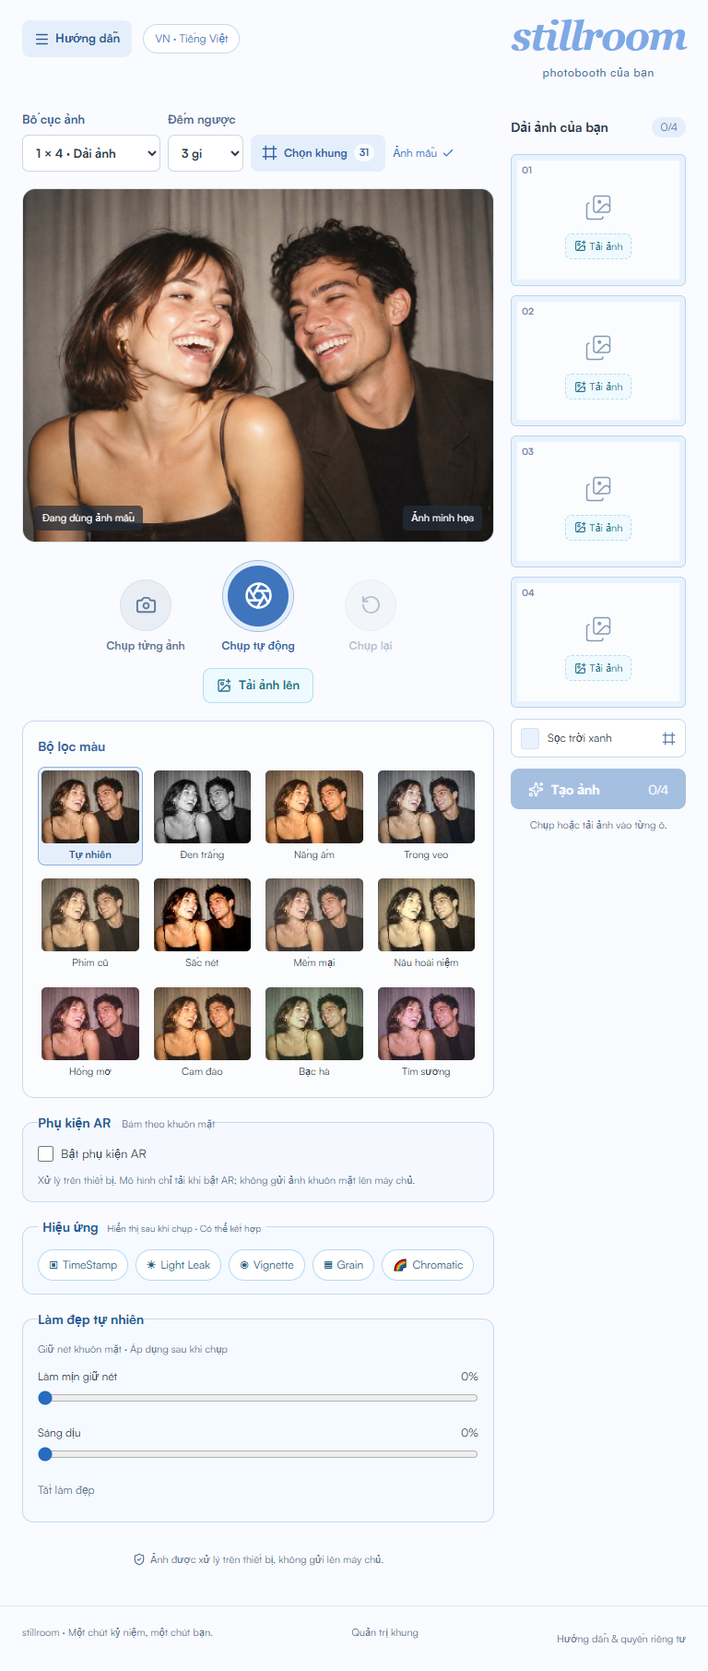
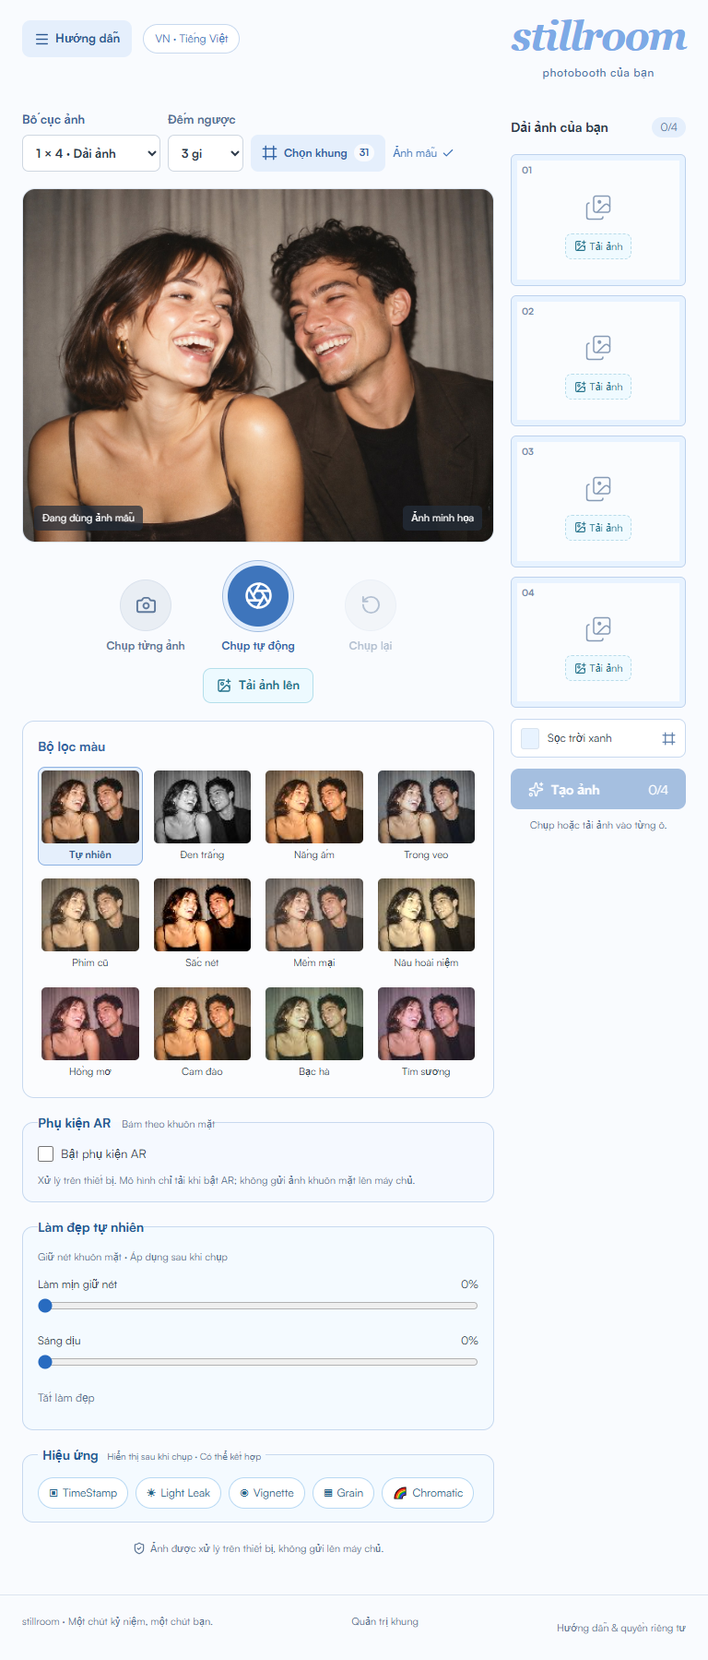
feat: redesign mobile photobooth tools

diff --git a/src/app/globals.css b/src/app/globals.css
@@ -1,4 +1,15 @@
 @import "tailwindcss";
+@import "./mobile.css";
+.desktop-tool{display:contents}.mobile-frame-trigger{display:none}.mobile-tool-sheet:not([open]){display:none}
+.secondary-controls .sample-button{margin-left:0}
+.print-editor .desktop-tool>label{display:flex;flex-direction:column;gap:6px;font-size:13px;margin-bottom:16px}
+html:has(.mobile-tool-sheet[open]),html:has(.frame-dialog[open]){overflow:hidden}
+.mobile-tool-sheet{padding:0;width:min(100%,600px);max-width:100%;max-height:85dvh;inset:auto 0 0;margin:0 auto;border-radius:20px 20px 0 0;overflow:hidden}
+.mobile-tool-sheet[open]{display:flex;flex-direction:column}
+.mobile-sheet-heading{display:flex;align-items:center;justify-content:space-between;gap:12px;padding:12px 16px;border-bottom:1px solid #c8d9ef;flex-shrink:0}
+.mobile-sheet-heading h2{font-size:18px;font-weight:700}.mobile-sheet-heading button{width:44px;height:44px;border-radius:50%;background:#e5effc}
+.mobile-sheet-content{overflow-y:auto;overscroll-behavior:contain;padding:16px 16px calc(20px + env(safe-area-inset-bottom));min-height:0}
+.mobile-sheet-content>label{display:flex;flex-direction:column;gap:8px;margin-bottom:16px}
 :root{--bg:#f9fbfe;--surface:#fdfeff;--accent:#3e75bc;--accent-soft:#e5effc;--accent-line:#c8d9ef;--ink:#2f3c4c;--muted:#5a7393;--blue:#24728b;--blue-soft:#edfaff}
 *{box-sizing:border-box}html{scroll-behavior:auto}body{margin:0;background:var(--bg);color:var(--ink);font-family:Satoshi,Arial,sans-serif;font-size:16px;line-height:1.5}button,input,select{font:inherit}button,a{touch-action:manipulation;-webkit-tap-highlight-color:transparent}button{cursor:pointer;background:none;color:inherit;border:0}button:disabled{opacity:.45;cursor:not-allowed}a{color:inherit;text-decoration:none}img{display:block;max-width:100%}h1,h2,h3,p{margin:0}fieldset{padding:0;margin:0;border:0;min-width:0}:focus-visible{outline:3px solid #537097;outline-offset:3px}h1[tabindex]:focus{outline:0}button{transition:background-color .15s,border-color .15s}button:hover:not(:disabled){filter:brightness(.97)}button:active:not(:disabled){filter:brightness(.93)}::selection{background:#d2e3fa}.studio{min-height:100dvh;overflow-x:clip}.studio-header{max-width:1480px;min-height:138px;padding:18px 32px 24px;margin:auto;display:grid;grid-template-columns:1fr auto 1fr;align-items:start;gap:20px}.header-tools{display:flex;align-items:center;gap:12px;padding-top:4px}.menu-button{display:flex;align-items:center;gap:6px;background:var(--accent-soft);color:#2d5992;padding:8px 13px;border-radius:9px;font-size:13px;font-weight:700;min-height:40px}.language-label{font-size:12px;color:var(--accent);border:1px solid var(--accent-line);background:#fff;border-radius:20px;padding:6px 12px}.brand{text-align:center;font-family:Georgia,serif;font-size:52px;line-height:1;font-weight:700;font-style:italic;letter-spacing:-.045em;color:#7daae6}.brand span{display:block;font-family:Satoshi,Arial,sans-serif;font-style:normal;font-weight:500;font-size:15px;letter-spacing:.05em;color:#4e75a9;margin-top:12px}.header-note{justify-self:end;display:flex;align-items:center;gap:6px;color:var(--muted);font-size:12px;padding-top:16px}.studio-grid{display:grid;grid-template-columns:minmax(0,1fr) 236px;gap:24px;max-width:1090px;margin:0 auto;padding:0 24px}.capture-panel{min-width:0}.toolbar{display:flex;gap:12px;align-items:end;margin:0 0 18px}.toolbar label{display:flex;flex-direction:column;gap:6px;font-size:13px;font-weight:600;color:#436899}.toolbar select{font-size:13px;min-height:40px;padding:8px 28px 8px 10px}.toolbar label:nth-child(2){color:#557196}.toolbar label:first-child{width:172px}.toolbar label:nth-child(2){width:96px}select,input:not([type=checkbox]){color:var(--ink);border:1px solid #cfd7e1;background:#fff;border-radius:7px;min-height:44px;padding:10px 12px;width:100%;min-width:0;font-size:14px}.frame-button{display:flex;align-items:center;gap:7px;min-height:40px;border-radius:8px;background:var(--accent-soft);color:#3163a5;padding:8px 12px;font-size:13px;font-weight:600;white-space:nowrap}.frame-button>span{background:#f9fbfe;border-radius:20px;padding:1px 6px;font-size:11px}.sample-button{display:flex;gap:5px;align-items:center;white-space:nowrap;min-height:40px;margin-left:auto;font-size:12px;color:var(--muted)}.sample-button[aria-pressed=true]{color:var(--accent)}.viewfinder{position:relative;width:min(100%,calc(490px * var(--ratio)));aspect-ratio:var(--ratio);max-width:100%;margin:auto;background:#eef3f9;border:1px solid #dce4ee;border-radius:14px;overflow:hidden}.viewfinder>canvas{width:100%;height:100%;object-fit:contain;display:block}.mirrored{transform:scaleX(-1)}.source-video{position:fixed;width:1px;height:1px;opacity:0;pointer-events:none;top:0;left:0}.camera-empty{position:absolute;inset:0;display:flex;flex-direction:column;align-items:center;justify-content:center;text-align:center;padding:24px;gap:14px;background:radial-gradient(ellipse at 50% 40%,#f8fbfe,#eef3f9)}.camera-symbol{background:#dfe7f2;color:#6b84a5;width:74px;height:74px;border-radius:50%;display:grid;place-items:center;margin-bottom:5px}.camera-empty h1{font-size:20px;line-height:1.5;font-weight:600}.camera-empty p{font-size:14px;max-width:370px;line-height:1.6;color:var(--muted)}.button{display:inline-flex;align-items:center;justify-content:center;gap:8px;min-height:44px;padding:10px 18px;font-size:14px;font-weight:600;border-radius:9px;border:1px solid transparent}.primary{background:var(--accent);color:white}.secondary{background:#fff;border-color:var(--accent-line);color:#516e95}.upload-inline{font-size:13px;color:var(--blue);min-height:36px;text-decoration:underline;text-underline-offset:3px}.camera-status,.mirror-note{position:absolute;bottom:12px;padding:5px 9px;border-radius:5px;background:#232d39bb;color:#fff;font-size:11px}.camera-status{left:12px}.mirror-note{right:12px}.countdown{position:absolute;inset:0;display:grid;place-items:center;color:white;text-shadow:0 2px 16px #232d3988;font-weight:700;font-size:100px}.capture-flash{position:absolute;inset:0;background:#fff9;pointer-events:none}.capture-controls{display:flex;align-items:end;justify-content:center;gap:36px;margin-top:20px}.capture-action{display:flex;flex-direction:column;align-items:center;gap:7px;font-size:12px;font-weight:600;color:#5e7899;min-width:86px}.capture-action>span{display:grid;place-items:center;background:#e9eef4;border:1px solid #dae2ed;width:56px;height:56px;border-radius:50%;color:#607a9c}.capture-action.auto>span{width:76px;height:76px;background:var(--accent);color:#fff;border:5px solid #e3eefc;outline:1px solid #a2bde0}.capture-action.auto{color:#3568aa}.shutter-count{font-size:26px;font-weight:700}.secondary-controls{display:flex;justify-content:center;gap:16px;align-items:center;min-height:68px}.upload-button{background:var(--blue-soft);border-color:#b4dfeb;color:var(--blue);font-size:13px;min-height:38px;padding:8px 14px}.quiet-button{display:flex;align-items:center;gap:5px;color:var(--muted);font-size:12px;min-height:40px}.filters-panel{border:1px solid var(--accent-line);border-radius:13px;padding:16px;margin-top:4px;background:#fbfcfe}.filters-panel legend{float:left;width:100%;color:#3364a3;font-size:14px;font-weight:700;margin-bottom:12px}.filters-panel legend span{float:right;font-size:11px;font-weight:400;color:var(--muted);line-height:21px}.filter-list{clear:both;display:grid;grid-template-columns:repeat(6,minmax(0,1fr));gap:10px 8px}.filter-option{padding:3px;border:1px solid transparent;border-radius:8px;display:flex;flex-direction:column;align-items:center;gap:5px;font-size:11px;text-align:center;line-height:1.4;min-height:40px}.filter-option img{width:100%;aspect-ratio:4/3;object-fit:cover;border-radius:5px}.filter-option.selected{background:var(--accent-soft);border-color:#8ab0e1;color:#345d92;font-weight:700}.privacy-line{font-size:11px;color:var(--muted);display:flex;justify-content:center;align-items:center;gap:5px;padding-top:16px}.strip-panel{padding-top:2px}.strip-heading{display:flex;justify-content:space-between;align-items:center;margin-bottom:14px;min-height:31px}.strip-heading h2{font-size:14px;font-weight:600}.strip-heading>span{font-size:12px;color:#5577a4;background:var(--accent-soft);border-radius:20px;padding:2px 9px}.photo-slots{display:grid;gap:12px}.photo-slot{position:relative;aspect-ratio:4/3;background:#fafcfe;border:1px solid #bdd2ed;border-radius:6px;display:flex;align-items:center;justify-content:center;flex-direction:column;gap:13px;overflow:hidden;box-shadow:inset 0 0 0 6px var(--frame-color)}.photo-slot>svg{color:#879bb6;margin-top:14px}.slot-number{position:absolute;top:9px;left:11px;font-size:10px;color:#748baa;font-weight:600;z-index:1}.slot-upload{display:flex;align-items:center;gap:4px;min-height:28px;font-size:11px;padding:4px 9px;border:1px dashed #b9dcea;border-radius:7px;background:#effaff;color:var(--blue)}.photo-slot.has-photo{padding:6px;background:var(--frame-color)}.photo-slot>img{height:100%;width:100%;object-fit:cover}.has-photo .slot-upload{position:absolute;bottom:10px;right:10px;background:#fcfdffe8;border-style:solid}.has-photo .slot-number{color:#fff;background:#2c3847b0;padding:2px 5px;border-radius:3px}.current-frame{display:flex;gap:9px;align-items:center;border:1px solid var(--accent-line);background:#fff;border-radius:8px;width:100%;min-height:42px;padding:8px 10px;font-size:12px;text-align:left;margin:12px 0}.current-frame>span:first-child{width:20px;height:23px;border:1px solid #0001;border-radius:3px;flex-shrink:0}.current-frame>svg:last-child{margin-left:auto;color:#5b7ca8;flex-shrink:0}.create-print{width:100%;margin-top:0}.create-print>span{margin-left:auto;font-weight:400}.strip-hint{text-align:center;font-size:11px;color:var(--muted);margin-top:9px}.studio-footer{max-width:1090px;margin:42px auto 0;border-top:1px solid #dce5f0;display:flex;justify-content:space-between;gap:12px;padding:20px 24px;color:var(--muted);font-size:11px}.studio-footer button{min-height:30px}.result-page{max-width:990px;padding:0 24px;margin:auto}.result-title{text-align:center;margin:8px 0 28px}.result-title>span{font-size:12px;color:var(--accent)}.result-title h1{font-size:30px;line-height:1.4;margin:8px 0;font-weight:600;letter-spacing:-.03em}.result-title p{font-size:14px;color:var(--muted)}.result-grid{display:grid;grid-template-columns:minmax(0,1fr) 300px;gap:48px}.result-stage{padding:30px;min-height:620px;display:flex;flex-direction:column;justify-content:center;align-items:center;background:#eaeff6;border-radius:13px;gap:20px}.finished-print{max-height:640px;max-width:100%;width:auto;box-shadow:0 7px 18px #425a7a20}.finished-print.strip{max-width:205px}.print-size{font-size:11px;color:var(--muted)}.print-editor h2{font-size:18px;font-weight:600;margin-bottom:20px}.print-editor>label,.color-row label{display:flex;flex-direction:column;gap:6px;font-size:13px;margin-bottom:16px}.color-row{display:grid;grid-template-columns:1fr 1fr;gap:12px}input[type=color]{padding:5px;cursor:pointer}.date-row{display:flex;gap:8px;align-items:center;margin-bottom:16px}.date-row label{display:flex;align-items:center;gap:6px;font-size:12px;white-space:nowrap}.date-row input[type=date]{font-size:12px}.date-row input[type=checkbox]{accent-color:var(--accent);width:16px;height:16px}.decorations{display:flex;gap:8px;margin-bottom:22px}.decorations legend{font-size:13px;margin-bottom:8px}.decorations button{width:40px;height:40px;display:grid;place-items:center;border:1px solid var(--accent-line);background:#fff;border-radius:8px}.decorations .selected{background:var(--accent-soft);border-color:#84a9d9;color:#3364a3}.print-editor>.button{width:100%;margin-bottom:10px}.editor-note{font-size:11px;color:var(--muted);text-align:center;margin-top:8px}dialog{position:fixed;inset:0;margin:auto;background:#fbfcfe;border:1px solid #cad9ec;border-radius:16px;padding:24px;color:var(--ink);box-shadow:0 18px 70px #2d415b26}dialog::backdrop{background:#212b3966}.frame-dialog{width:min(850px,calc(100% - 32px));max-height:88dvh;overflow:auto}.dialog-heading{display:flex;justify-content:space-between;gap:20px;align-items:start;margin-bottom:20px}.dialog-heading h2{font-size:22px;font-weight:600;line-height:1.4;margin-top:4px}.dialog-heading>div>span{color:#527cb4;font-size:12px}.dialog-heading>button{width:40px;height:40px;display:grid;place-items:center;flex-shrink:0;border-radius:50%;background:#e9f0f9}.frame-categories{display:flex;gap:8px;flex-wrap:wrap;margin-bottom:20px}.frame-categories button{font-size:12px;border:1px solid #d4deea;border-radius:20px;padding:7px 14px;min-height:36px;background:#fff}.frame-categories .selected{background:var(--accent);border-color:var(--accent);color:#fff}.frame-grid{display:grid;grid-template-columns:repeat(5,minmax(0,1fr));gap:18px 12px}.frame-choice{min-width:0;padding:0;display:flex;flex-direction:column;gap:8px;text-align:center;font-size:12px}.frame-choice>div{height:190px;display:flex;align-items:center;justify-content:center;position:relative;border:2px solid transparent;border-radius:8px;padding:10px}.frame-choice.selected>div{border-color:var(--accent)}.frame-choice img{height:168px;width:auto;max-width:100%;object-fit:contain;box-shadow:0 3px 8px #202a3718}.frame-check{position:absolute;right:7px;top:7px;width:23px;height:23px;display:grid;place-items:center;border-radius:50%;background:var(--accent);color:white}.gallery-note{font-size:11px;color:var(--muted);margin-top:24px;text-align:center}.help-dialog{max-width:520px;width:calc(100% - 32px);max-height:85dvh;overflow:auto}.help-dialog ol{padding-left:22px;font-size:14px;color:var(--muted);line-height:1.9;margin:0 0 24px}.help-dialog h3{font-size:16px;margin-bottom:8px}.help-dialog p{font-size:14px;color:var(--muted);margin-bottom:16px}.toast{position:fixed;bottom:20px;left:50%;transform:translateX(-50%);display:flex;gap:18px;align-items:center;background:#354457;color:white;padding:12px 16px;border-radius:10px;font-size:13px;z-index:30;max-width:calc(100% - 32px);width:max-content;box-shadow:0 4px 20px #36455920}.toast button{min-width:32px;min-height:32px;display:grid;place-items:center}.skip-link{position:fixed;top:-100px;left:12px;padding:10px 14px;background:var(--accent);color:white;z-index:40}.skip-link:focus{top:12px}.sr-only{position:absolute;width:1px;height:1px;margin:-1px;overflow:hidden;clip:rect(0,0,0,0);white-space:nowrap;border:0;padding:0}.spin{animation:spin 1s linear infinite}@keyframes spin{to{transform:rotate(360deg)}}@media(min-width:1500px){.studio-header{min-height:150px}.studio-grid{max-width:1130px;grid-template-columns:minmax(0,1fr) 250px}.viewfinder{width:min(100%,calc(520px * var(--ratio)))}}
 @media(max-width:900px){.studio-header{padding:18px 24px 22px;grid-template-columns:1fr auto;min-height:120px}.brand{font-size:43px;grid-column:2;grid-row:1}.brand span{font-size:12px}.header-note{display:none}.studio-grid{grid-template-columns:minmax(0,1fr) 190px;gap:18px}.toolbar{gap:8px;flex-wrap:wrap}.toolbar label:first-child{width:150px}.toolbar label:nth-child(2){width:82px}.frame-button{font-size:12px}.sample-button{margin-left:0}.filter-list{grid-template-columns:repeat(4,1fr)}.filters-panel legend span{display:none}.photo-slots{gap:10px}.photo-slot>svg{width:30px;height:30px}.result-grid{gap:24px;grid-template-columns:minmax(0,1fr) 280px}.frame-grid{grid-template-columns:repeat(4,1fr)}}

diff --git a/src/components/booth.tsx b/src/components/booth.tsx
@@ -7,6 +7,7 @@ import { applyFilter, captureFrame, composePhoto, downloadPhoto, generatePhotoSt
 
 import { COLLECTED_FRAMES, loadCollectedFrame, frameLayout, isFrameLayout } from '@/lib/collected-frames';
 import { ARPicker } from './ar-picker';
+import { MobileTool } from './mobile-tool';
 import { useAR } from '@/hooks/use-ar';
 import { paintAR,type ARAccessory } from '@/lib/ar';
 import { BeautyPicker } from './beauty-picker';
@@ -278,7 +279,6 @@ export function Booth() {
           <label>Bố cục ảnh<select disabled={!!options.customFrame} value={options.layout} onChange={e => update('layout', e.target.value as LayoutId)}>{options.customFrame ? <option value={options.layout}>{layout.shots} ảnh · Khung admin</option> : LAYOUTS.filter(l => frameLayout(options.theme) ? l.id === frameLayout(options.theme) : !isFrameLayout(l.id)).map(l => <option value={l.id} key={l.id}>{l.name}</option>)}</select></label>
           <label>Đếm ngược<select value={delay} onChange={e => setDelay(Number(e.target.value))}>{[1, 3, 5, 10].map(n => <option key={n} value={n}>{n} giây</option>)}</select></label>
           <button className="frame-button" onClick={() => gallery.current?.showModal()}><Frame size={17} />Chọn khung<span>{THEMES.length + sharedFrames.length}</span></button>
-          <button className="sample-button" aria-pressed={demo} disabled={!sample} onClick={() => { camera.stop(); setDemo(!demo); }}>Ảnh mẫu{demo && <Check size={14} />}</button>
         </fieldset>
         <div className="viewfinder" style={{ '--ratio': layout.ratio } as CSSProperties}>
           <canvas ref={canvasRef} className={!demo && facing === 'user' ? 'mirrored' : ''} aria-label="Xem trước camera" role="img" />
@@ -299,12 +299,18 @@ export function Booth() {
           <button className="capture-action" disabled={busy || !photos.some(Boolean)} onClick={reset}><span><RotateCcw size={23} /></span>Chụp lại</button>
         </div>
         <div className="secondary-controls">
+          {phase !== 'countdown' && <button className="sample-button" aria-pressed={demo} disabled={!sample || busy} onClick={() => { camera.stop(); setDemo(!demo); }}>Ảnh mẫu{demo && <Check size={14} />}</button>}
           {phase === 'countdown' ? <button className="button secondary" onClick={cancel}><X size={15} />Dừng chụp</button> : <><button className="button upload-button" disabled={uploading} onClick={() => uploadAt(null)}><ImagePlus size={16} />{uploading ? 'Đang đọc ảnh…' : 'Tải ảnh lên'}</button>{!demo && camera.status === 'ready' && <button className="quiet-button" onClick={() => { const next = facing === 'user' ? 'environment' : 'user'; setFacing(next); void camera.start(next); }}><SwitchCamera size={16} />Đổi camera</button>}</>}
         </div>
-        <fieldset className="filters-panel" disabled={busy}><legend>Bộ lọc màu <span>12 sắc thái cho khoảnh khắc của bạn</span></legend><div className="filter-list">{FILTERS.map((f, i) => <button key={f.id} className={'filter-option ' + (options.filter === f.id ? 'selected' : '')} aria-pressed={options.filter === f.id} onClick={() => update('filter', f.id)}>{filterThumbs[i] && <img src={filterThumbs[i]} alt="" />}<span>{f.name}</span></button>)}</div></fieldset>
+        <div className="capture-toolset">
+        <button className="mobile-tool-trigger mobile-frame-trigger" disabled={busy} onClick={() => gallery.current?.showModal()}>Khung</button>
+        <MobileTool title="Bộ lọc" disabled={busy}><fieldset className="filters-panel" disabled={busy}><legend>Bộ lọc màu <span>12 sắc thái cho khoảnh khắc của bạn</span></legend><div className="filter-list">{FILTERS.map((f, i) => <button key={f.id} className={'filter-option ' + (options.filter === f.id ? 'selected' : '')} aria-pressed={options.filter === f.id} onClick={() => update('filter', f.id)}>{filterThumbs[i] && <img src={filterThumbs[i]} alt="" />}<span>{f.name}</span></button>)}</div></fieldset></MobileTool>
+        <MobileTool title="AR" disabled={busy}>
         <ARPicker enabled={arEnabled} onEnabled={setArEnabled} items={arItems} onItems={setArItems} size={arSize} onSize={setArSize} status={ar.status} faces={ar.faceCount} active={ready} disabled={busy} onRetry={ar.retry}/>
-        <EffectPicker value={options.effects} onChange={v => update('effects', v)} disabled={busy} />
-        <BeautyPicker value={options.beauty} onChange={v => update('beauty', v)} disabled={busy} />
+        </MobileTool>
+        <MobileTool title="Làm đẹp" disabled={busy}><BeautyPicker value={options.beauty} onChange={v => update('beauty', v)} disabled={busy} /></MobileTool>
+        <MobileTool title="Hiệu ứng" disabled={busy}><EffectPicker value={options.effects} onChange={v => update('effects', v)} disabled={busy} /></MobileTool>
+        </div>
         <p className="privacy-line"><ShieldCheck size={14} />Ảnh được xử lý trên thiết bị, không gửi lên máy chủ.</p>
       </section>
 
@@ -325,16 +331,28 @@ export function Booth() {
       <div className="result-title"><span>Ảnh của bạn đã sẵn sàng</span><h1 tabIndex={-1} ref={resultHeading}>Giữ lại khoảnh khắc này.</h1><p>Thêm một lời nhắn, chọn khung yêu thích rồi tải về.</p></div>
       <div className="result-grid"><div className="result-stage">{preview ? <div className="print-composition" style={{ width: !options.customFrame && options.layout === 'strip' ? 205 : Math.min(500, 640 * (printRef.current ? printRef.current.width / printRef.current.height : 1)) }}><img className={'finished-print ' + options.layout} src={preview} alt={'Ảnh hoàn chỉnh: ' + options.caption} /><StickerLayer items={stickers} selected={selectedSticker} onSelect={setSelectedSticker} onChange={setStickers} /></div> : <LoaderCircle className="spin" />}<span className="print-size">{size} · PNG{rendering ? ' · Đang cập nhật…' : ''}</span></div>
       <div className="print-editor"><h2>Một chút của riêng bạn</h2>
-        <button className="current-frame" onClick={() => gallery.current?.showModal()}><span style={{ background: theme.color }} />{theme.name}<Frame size={17} /></button>
+        <MobileTool title="Khung, lời nhắn và màu ảnh">
+        <button className="current-frame" onClick={e => {
+          const sheet=e.currentTarget.closest('dialog');
+          const returnTo=sheet?.previousElementSibling;
+          sheet?.close();
+          if(returnTo instanceof HTMLButtonElement)gallery.current?.addEventListener('close',()=>returnTo.focus(),{once:true});
+          gallery.current?.showModal();
+        }}><span style={{ background: theme.color }} />{theme.name}<Frame size={17} /></button>
         <label>Lời nhắn<input value={options.caption} maxLength={60} onChange={e => update('caption', e.target.value)} placeholder="Viết một điều dễ thương…" /></label>
         <label>Bộ lọc màu<select aria-label="Bộ lọc màu" value={options.filter} onChange={e => update('filter', e.target.value as PrintOptions['filter'])}>{FILTERS.map(f => <option key={f.id} value={f.id}>{f.name}</option>)}</select></label>
         <label>Bố cục ảnh<select disabled={!!options.customFrame} aria-label="Bố cục ảnh" value={options.layout} onChange={e => update('layout', e.target.value as LayoutId)}>{options.customFrame ? <option value={options.layout}>{layout.shots} ảnh · Khung admin</option> : LAYOUTS.filter(l => (frameLayout(options.theme) ? l.id === frameLayout(options.theme) : !isFrameLayout(l.id)) && photos.slice(0, l.shots).every(Boolean)).map(l => <option key={l.id} value={l.id}>{l.name}</option>)}</select></label>
-        <EffectPicker value={options.effects} onChange={v => update('effects', v)} />
-        <BeautyPicker value={options.beauty} onChange={v => update('beauty', v)} />
+        </MobileTool>
+        <MobileTool title="Hiệu ứng"><EffectPicker value={options.effects} onChange={v => update('effects', v)} /></MobileTool>
+        <MobileTool title="Làm đẹp"><BeautyPicker value={options.beauty} onChange={v => update('beauty', v)} /></MobileTool>
+        <MobileTool title="Sticker">
         <StickerPicker items={stickers} selected={selectedSticker} onSelect={setSelectedSticker} onChange={setStickers} />
+        </MobileTool>
+        <MobileTool title="Màu khung và trang trí">
         {!options.customFrame && !COLLECTED_FRAMES[options.theme] && <div className="color-row"><label>Màu nền<input type="color" value={options.background} onChange={e => update('background', e.target.value)} /></label><label>Màu viền<input type="color" value={options.border} onChange={e => update('border', e.target.value)} /></label></div>}
         <div className="date-row"><label><input type="checkbox" checked={options.showDate} onChange={e => update('showDate', e.target.checked)} />In ngày chụp</label><input type="date" aria-label="Ngày chụp" disabled={!options.showDate} value={options.date} onChange={e => update('date', e.target.value)} /></div>
         <fieldset className="decorations"><legend>Trang trí nhỏ</legend>{(['none', 'heart', 'star', 'sparkle'] as const).map((kind, i) => { const Icon = [X, Heart, Star, Sparkles][i]; return <button key={kind} aria-label={['Không trang trí', 'Trái tim', 'Ngôi sao', 'Lấp lánh'][i]} aria-pressed={options.decoration === kind} className={options.decoration === kind ? 'selected' : ''} onClick={() => update('decoration', kind)}><Icon size={18} /></button>; })}</fieldset>
+        </MobileTool>
         <button className="button primary download-button" disabled={!preview || rendering || saving} onClick={() => void save()}><Download size={18} />{saving ? 'Đang tải ảnh…' : 'Tải ảnh PNG'}</button>
         <button className="button secondary" onClick={reset}><RotateCcw size={16} />Chụp bộ ảnh mới</button>
         <p className="editor-note">Camera đã tắt. Ảnh vẫn chỉ ở trên thiết bị của bạn.</p>

diff --git a/tests/mobile-tools.spec.ts b/tests/mobile-tools.spec.ts
@@ -1,0 +1,93 @@
+import { test, expect } from '@playwright/test';
+import path from 'node:path';
+
+test('phone camera and AR stay active across sheets; countdown locks tools and can stop',async({page})=>{
+  test.setTimeout(90000);
+  await page.setViewportSize({width:390,height:844});
+  await page.addInitScript(()=>{
+    Object.assign(window,{cameraStarts:0});
+    navigator.mediaDevices.getUserMedia=async()=>{
+      (window as unknown as {cameraStarts:number}).cameraStarts++;
+      const img=new Image();img.src='/sample.jpg';await img.decode();
+      const canvas=document.createElement('canvas');canvas.width=640;canvas.height=480;
+      canvas.getContext('2d')!.drawImage(img,0,0,640,480);return canvas.captureStream(10);
+    };
+  });
+  let models=0;page.on('request',r=>{if(r.url().includes('face_landmarker.task'))models++;});
+  await page.goto('/');await page.getByRole('button',{name:'Bật camera',exact:true}).click();
+  await page.getByRole('button',{name:'Đổi camera',exact:true}).click();
+  await expect(page.locator('.mirror-note')).toHaveText('Camera sau');
+  await page.getByRole('button',{name:'AR',exact:true}).click();await page.getByLabel('Bật phụ kiện AR',{exact:true}).check();
+  await expect(page.locator('.ar-status')).toContainText(/Đang bám theo [12] khuôn mặt/,{timeout:45000});
+  await page.getByRole('button',{name:'Đóng AR',exact:true}).click();
+  await page.getByRole('button',{name:'Bộ lọc',exact:true}).click();await page.getByRole('button',{name:'Đóng Bộ lọc',exact:true}).click();
+  await page.getByRole('button',{name:'AR',exact:true}).click();await expect(page.getByLabel('Bật phụ kiện AR',{exact:true})).toBeChecked();
+  await page.getByRole('button',{name:'Đóng AR',exact:true}).click();
+  expect(models).toBe(1);expect(await page.evaluate(()=>(window as unknown as {cameraStarts:number}).cameraStarts)).toBe(2);
+  await page.getByRole('button',{name:'Chụp tự động',exact:true}).click();await expect(page.getByRole('button',{name:'Bộ lọc',exact:true})).toBeDisabled();
+  await page.getByRole('button',{name:'Dừng chụp',exact:true}).click();await expect(page.locator('.photo-slot.has-photo')).toHaveCount(0);
+  await page.getByLabel('Đếm ngược').selectOption('1');await page.getByRole('button',{name:'Chụp tự động',exact:true}).click();
+  await expect(page.locator('.finished-print')).toBeVisible({timeout:25000});
+});
+
+test('phone tools retain choices, focus, aspect and usable targets at all sizes', async ({ page }) => {
+  test.setTimeout(120000);
+  for (const [width,height] of [[320,700],[360,800],[390,844],[430,932],[844,390]]) {
+    await page.setViewportSize({width,height}); await page.goto('/');
+    await page.getByRole('button',{name:'Ảnh mẫu',exact:true}).click();
+    await expect(page.getByRole('button',{name:'Bộ lọc',exact:true})).toBeVisible();
+    expect(await page.evaluate(()=>document.documentElement.scrollWidth<=innerWidth)).toBe(true);
+    const camera=(await page.locator('.viewfinder').boundingBox())!;
+    expect(Math.abs(camera.width/camera.height-4/3)).toBeLessThan(.01);
+    const strip=(await page.locator('.strip-panel').boundingBox())!,tools=(await page.locator('.capture-toolset').boundingBox())!;
+    expect(strip.y).toBeLessThan(tools.y);
+    for(const title of ['Bộ lọc','AR','Làm đẹp','Hiệu ứng']) {
+      const button=page.getByRole('button',{name:title,exact:true});await button.click();
+      await expect(page.locator('dialog[open]')).toHaveCount(1);
+      const close=page.getByRole('button',{name:'Đóng '+title,exact:true});
+      const box=(await close.boundingBox())!;expect(box.height).toBeGreaterThanOrEqual(44);expect(box.y).toBeGreaterThanOrEqual(0);expect(box.y+box.height).toBeLessThanOrEqual(height);
+      if(title==='Bộ lọc')await page.getByRole('button',{name:'Hồng mơ',exact:true}).click();
+      await close.click();await expect(button).toBeFocused();
+    }
+    await page.getByRole('button',{name:'Bộ lọc',exact:true}).click();
+    await expect(page.getByRole('button',{name:'Hồng mơ',exact:true})).toHaveAttribute('aria-pressed','true');
+    await page.keyboard.press('Escape');
+    await page.getByRole('button',{name:'Khung',exact:true}).click();
+    expect(await page.locator('.frame-grid').evaluate(el=>getComputedStyle(el).gridTemplateColumns.split(' ').length)).toBe(2);
+    await page.getByRole('button',{name:'Đóng thư viện khung',exact:true}).click();
+    await page.screenshot({path:`screenshots/mobile-redesign-${width}.png`,fullPage:true});
+  }
+});
+
+test('phone upload, result tools, sticker gestures and PNG export',async({page})=>{
+  await page.setViewportSize({width:390,height:844});await page.goto('/');
+  await page.getByLabel('Bố cục ảnh').selectOption('polaroid');
+  await page.locator('input[type=file]').setInputFiles(path.resolve('public/sample.jpg'));
+  await page.getByRole('button',{name:'Tạo ảnh',exact:true}).click();
+  await expect(page.locator('.finished-print')).toBeVisible();
+  await page.getByRole('button',{name:'Khung, lời nhắn và màu ảnh',exact:true}).click();
+  await page.getByLabel('Lời nhắn',{exact:true}).fill('Kỷ niệm trên điện thoại');
+  expect(await page.getByLabel('Lời nhắn',{exact:true}).evaluate(el=>getComputedStyle(el).fontSize)).toBe('16px');
+  await page.getByRole('button',{name:'Đóng Khung, lời nhắn và màu ảnh',exact:true}).click();
+  await page.getByRole('button',{name:'Khung, lời nhắn và màu ảnh',exact:true}).click();
+  await page.locator('.mobile-tool-sheet[open] .current-frame').click();
+  await expect(page.locator('dialog[open]')).toHaveCount(1);
+  await page.getByRole('button',{name:'Đóng thư viện khung',exact:true}).click();
+  await expect(page.getByRole('button',{name:'Khung, lời nhắn và màu ảnh',exact:true})).toBeFocused();
+  await page.getByRole('button',{name:'Sticker',exact:true}).click();
+  await page.locator('.sticker-panel summary').click();await page.getByLabel('Tìm sticker').fill('meo');
+  await page.getByRole('button',{name:'Thêm sticker Mèo',exact:true}).click();
+  await page.getByRole('button',{name:'Đóng Sticker',exact:true}).click();
+  const sticker=page.getByRole('button',{name:'Di chuyển sticker Mèo',exact:true});
+  await sticker.scrollIntoViewIfNeeded();const box=(await sticker.boundingBox())!;
+  const touch=await page.context().newCDPSession(page);
+  await touch.send('Input.dispatchTouchEvent',{type:'touchStart',touchPoints:[{x:box.x+box.width/2,y:box.y+box.height/2}]});
+  await touch.send('Input.dispatchTouchEvent',{type:'touchMove',touchPoints:[{x:box.x+box.width/2+20,y:box.y+box.height/2+15}]});
+  await touch.send('Input.dispatchTouchEvent',{type:'touchEnd',touchPoints:[]});
+  expect(await page.locator('.placed-sticker').evaluate(el=>parseFloat((el as HTMLElement).style.left))).toBeGreaterThan(50);
+  for(const name of ['Xoay sticker','Kích thước sticker']) {const handle=page.getByRole('button',{name,exact:true});expect((await handle.boundingBox())!.width).toBeGreaterThanOrEqual(44);await handle.focus();await page.keyboard.press('ArrowRight');}
+  expect(await page.locator('.placed-sticker').getAttribute('style')).toContain('rotate(5deg)');
+  await page.getByRole('button',{name:'Tải ảnh PNG',exact:true}).scrollIntoViewIfNeeded();
+  const event=page.waitForEvent('download');await page.getByRole('button',{name:'Tải ảnh PNG',exact:true}).click();expect((await event).suggestedFilename()).toMatch(/\.png$/);
+  await page.screenshot({path:'screenshots/mobile-result-redesign.png',fullPage:true});
+});

diff --git a/src/app/mobile.css b/src/app/mobile.css
@@ -1,0 +1,55 @@
+@media (max-width:767px), (max-height:500px) and (max-width:950px) {
+  .studio .studio-header{min-height:0;padding:12px 16px;gap:10px;grid-template-columns:1fr auto;align-items:center}
+  .studio .brand{font-size:32px;grid-column:2;grid-row:1}.studio .brand span{font-size:10px;margin-top:5px}.studio .header-note{display:none}
+  .studio .header-tools{gap:6px;flex-wrap:wrap}.studio .language-label{font-size:11px;padding:4px 8px}
+  .studio .studio-grid{display:flex;flex-direction:column;padding:0 12px;gap:12px}
+  .studio .capture-panel{display:contents}
+  .studio .toolbar{order:0;display:grid;grid-template-columns:1.4fr 1fr;gap:8px;align-items:end;margin:0}
+  .studio .toolbar label:first-child,.studio .toolbar label:nth-child(2){width:auto;font-size:12px}
+  .studio .toolbar select{font-size:16px;min-height:44px;padding:8px}
+  .studio .toolbar .frame-button{display:none}.studio .sample-button{grid-column:3;grid-row:1;align-self:end;font-size:12px}
+  .studio .viewfinder{order:1;width:min(100%,calc(42svh * var(--ratio)));border-radius:14px}
+  .studio .capture-controls{order:2;margin:0;gap:24px}.studio .capture-action{min-width:70px;font-size:12px}
+  .studio .capture-action>span{width:48px;height:48px}.studio .capture-action.auto>span{width:64px;height:64px}
+  .studio .secondary-controls{order:3;min-height:44px;gap:10px;flex-wrap:wrap}
+  .studio .secondary-controls .sample-button{margin:0;align-self:center}
+  .studio .strip-panel{order:4;padding:0}.studio .strip-heading{margin:0 0 6px;min-height:24px}
+  .studio .strip-heading h2{font-size:13px}.studio .photo-slots{display:flex;gap:8px;overflow-x:auto;padding:2px}
+  .studio .photo-slot{flex:1;min-width:64px;aspect-ratio:1;max-height:100px;gap:0;box-shadow:inset 0 0 0 3px var(--frame-color)}
+  .studio .photo-slots.one{max-width:none;margin:0}.studio .photo-slots.one .photo-slot{flex:0 0 100px}
+  .studio .photo-slot>svg{display:none}.studio .slot-number{top:3px;left:5px;font-size:10px}
+  .studio .slot-upload{font-size:11px;padding:2px;min-width:44px;max-width:100%;border:0;background:#edfaffee}
+  .studio .slot-upload svg{display:none}.studio .has-photo .slot-upload{bottom:3px;right:3px}
+  .studio .strip-panel .current-frame{display:none}.studio .create-print{margin-top:8px}.studio .strip-hint{font-size:11px;margin-top:4px}
+  .studio .capture-toolset{order:5;display:grid;grid-template-columns:repeat(5,minmax(0,1fr));gap:5px}
+  .studio .mobile-tool-trigger{display:block;border:1px solid #c8d9ef;border-radius:10px;background:#edf4ff;color:#285c9c;padding:8px 4px;font-size:12px;min-width:0;min-height:48px}
+  .studio .privacy-line{order:6;padding:0;font-size:11px}.studio .studio-footer{margin-top:20px}
+  .studio button:not(.sticker-body){min-height:44px}.studio input:not([type=checkbox]),.studio select{font-size:16px;min-height:44px}
+  .studio .dialog-heading>button,.studio .decorations button{min-width:44px}
+  .studio .mobile-sheet-content input:not([type=checkbox]){font-size:16px;min-height:44px}
+  .studio .ar-toggle,.studio .date-row label{min-height:44px}
+  .studio .camera-empty{padding:12px;gap:8px}.studio .camera-empty h1{font-size:15px}.studio .camera-empty p{font-size:12px}.studio .camera-symbol{display:none}
+  .studio .frame-dialog{inset:auto 0 0;margin:0;width:100%;max-width:100%;max-height:88dvh;border-radius:20px 20px 0 0;padding:0 14px calc(16px + env(safe-area-inset-bottom));overscroll-behavior:contain}
+  .studio .frame-dialog .dialog-heading{position:sticky;top:0;background:#fbfcfe;padding:12px 0;margin:0;z-index:3;align-items:center}
+  .studio .dialog-heading h2{font-size:18px}.studio .frame-categories{flex-wrap:nowrap;overflow-x:auto;padding:8px 0;gap:8px}
+  .studio .frame-categories button{white-space:nowrap;flex-shrink:0}.studio .frame-grid{grid-template-columns:repeat(2,minmax(0,1fr));gap:14px 10px}
+  .studio .frame-choice{font-size:13px}.studio .frame-choice>div{height:180px;width:100%}.studio .frame-choice img{height:160px}
+  .studio .filter-list{grid-template-columns:repeat(3,minmax(0,1fr))}.studio .filter-option{font-size:12px}
+  .studio .mobile-sheet-content .ar-panel{margin-top:0}.studio .ar-choices{grid-template-columns:repeat(2,minmax(0,1fr))}
+  .studio .result-page{padding:0 12px}.studio .result-title{margin:6px 0 16px}.studio .result-title h1{font-size:24px}
+  .studio .result-grid{grid-template-columns:minmax(0,1fr);gap:16px}.studio .result-stage{position:static;min-height:0;padding:24px 20px}
+  .studio .print-composition{max-width:100%}.studio .finished-print{max-height:55svh}.studio .finished-print.strip{max-width:100%}
+  .studio .print-editor{display:flex;flex-direction:column;gap:8px;max-width:none;padding-bottom:env(safe-area-inset-bottom)}
+  .studio .print-editor h2{margin:0 0 4px;font-size:16px}.studio .print-editor>.mobile-tool-trigger{text-align:left;padding:10px 14px}
+  .studio .download-button{order:-2;position:sticky;bottom:calc(8px + env(safe-area-inset-bottom));z-index:4;box-shadow:0 4px 16px #23456720}
+  .studio .sticker-handle{width:44px;height:44px;font-size:23px}.studio .rotate-handle{top:-26px;left:calc(50% - 22px)}.studio .resize-handle{right:-20px;bottom:-20px}
+  .studio .sticker-body::after{content:"";position:absolute;left:50%;top:50%;transform:translate(-50%,-50%);width:max(100%,44px);height:max(100%,44px)}
+  .studio .sticker-panel summary{min-height:44px;padding:8px 0}.studio .sticker-grid{grid-template-columns:repeat(4,minmax(44px,1fr))}
+  .studio .toast{bottom:calc(16px + env(safe-area-inset-bottom))}
+}
+@media (max-height:500px) and (max-width:950px){
+  .studio .studio-header{padding:6px 12px}.studio .brand span{display:none}
+  .studio .viewfinder{width:min(100%,calc(58svh * var(--ratio)))}
+  .studio .camera-empty p{display:none}.studio .camera-empty{gap:4px}.studio .camera-empty h1{font-size:13px}
+  .studio .mobile-tool-sheet{max-height:95dvh}
+}

diff --git a/src/components/mobile-tool.tsx b/src/components/mobile-tool.tsx
@@ -1,0 +1,25 @@
+'use client';
+import { useEffect, useId, useRef, useState, type ReactNode } from 'react';
+
+// Keep a single copy of each editor, with its state owned by the booth.
+export function MobileTool({ title, disabled, children }: { title: string; disabled?: boolean; children: ReactNode }) {
+  const [mobile, setMobile] = useState(false);
+  const dialog = useRef<HTMLDialogElement>(null);
+  const trigger = useRef<HTMLButtonElement>(null);
+  const titleId = useId();
+  useEffect(() => {
+    const query = matchMedia('(max-width: 767px), (max-height: 500px) and (max-width: 950px)');
+    const sync = () => { dialog.current?.close(); setMobile(query.matches); };
+    sync(); query.addEventListener('change', sync);
+    return () => query.removeEventListener('change', sync);
+  }, []);
+  useEffect(() => { if (disabled) dialog.current?.close(); }, [disabled]);
+  if (!mobile) return <div className="desktop-tool">{children}</div>;
+  return <>
+    <button ref={trigger} className="mobile-tool-trigger" disabled={disabled} aria-haspopup="dialog" onClick={() => dialog.current?.showModal()}>{title}</button>
+    <dialog ref={dialog} className="mobile-tool-sheet" aria-labelledby={titleId} onClose={() => trigger.current?.focus()}>
+      <div className="mobile-sheet-heading"><h2 id={titleId}>{title}</h2><button aria-label={'Đóng ' + title} onClick={() => dialog.current?.close()}>✕</button></div>
+      <div className="mobile-sheet-content">{children}</div>
+    </dialog>
+  </>;
+}

diff --git a/tests/beauty-stickers.spec.ts b/tests/beauty-stickers.spec.ts
@@ -73,7 +73,11 @@ test('beauty is reversible; all 100 stickers load; drag, transforms, delete and 
   await page.screenshot({path:'screenshots/beauty-stickers-desktop.png',fullPage:true});
   await page.setViewportSize({width:390,height:844});
   expect(await page.evaluate(()=>document.documentElement.scrollWidth<=innerWidth)).toBe(true);
-  for (const selector of ['.print-composition','.print-editor','.sticker-grid']) { const bounds=(await page.locator(selector).boundingBox())!; expect(bounds.x).toBeGreaterThanOrEqual(0); expect(bounds.x+bounds.width).toBeLessThanOrEqual(390); }
+  for (const selector of ['.print-composition','.print-editor']) { const bounds=(await page.locator(selector).boundingBox())!; expect(bounds.x).toBeGreaterThanOrEqual(0); expect(bounds.x+bounds.width).toBeLessThanOrEqual(390); }
+  await page.getByRole('button',{name:'Sticker',exact:true}).click();
+  await page.locator('.sticker-panel summary').click();
+  const grid=(await page.locator('.sticker-grid').boundingBox())!;expect(grid.x).toBeGreaterThanOrEqual(0);expect(grid.x+grid.width).toBeLessThanOrEqual(390);
+  await page.getByRole('button',{name:'Đóng Sticker',exact:true}).click();
   await sticker.scrollIntoViewIfNeeded();
   const touch=await page.context().newCDPSession(page);
   await touch.send('Emulation.setTouchEmulationEnabled',{enabled:true});

diff --git a/tests/ar.spec.ts b/tests/ar.spec.ts
@@ -30,7 +30,9 @@ test('real local AR model tracks faces, previews all accessories and captures th
   expect(createHash('sha256').update(png).digest('hex')).toBe(withPixels);
   await page.locator('.print-composition').screenshot({path:'screenshots/ar-result.png'});
   await page.getByRole('button',{name:'Chụp bộ ảnh mới',exact:true}).click();
+  await page.getByRole('button',{name:'AR',exact:true}).click();
   await page.getByLabel('Bật phụ kiện AR',{exact:true}).uncheck();
+  await page.getByRole('button',{name:'Đóng AR',exact:true}).click();
   await page.getByRole('button',{name:'Chụp từng ảnh',exact:true}).click();
   await expect(page.locator('.finished-print')).toBeVisible();
   expect(await page.locator('.finished-print').getAttribute('src')).not.toBe(withAR);

diff --git a/README.md b/README.md
@@ -33,6 +33,8 @@ Mở http://127.0.0.1:3000. Nhấn **Bật camera** để cấp quyền, hoặc 
 
 ## Tối ưu UI/UX
 
+Trên điện thoại dưới 768 px (và màn hình ngang thấp), camera và nút chụp đứng trước dải ảnh. Thanh **Khung · Bộ lọc · AR · Làm đẹp · Hiệu ứng** mở từng bảng từ dưới màn hình; đóng bảng giữ lựa chọn và trả tiêu điểm về nút mở. Trang thành phẩm gom công cụ thành nhóm, ưu tiên ảnh xem trước và nút tải PNG. Vùng chạm sticker lớn hơn chỉ áp dụng ở booth, không thay đổi trang admin. Kiểm thử `tests/mobile-tools.spec.ts` bao gồm các kích thước 320–430 px, ngang 844 px, bảng công cụ, vòng đời camera/AR, thao tác cảm ứng mô phỏng và tải ảnh. Safari và bàn phím trên điện thoại thật cần kiểm tra trên thiết bị.
+
 Mở trực tiếp vào booth. Không tải phần trang giới thiệu, GSAP, marquee, hiệu ứng ghim hoặc hiệu ứng cuộn vào trang hiện hành. Chỉ giữ đếm ngược và phản hồi chụp ngắn. Preview dùng hai canvas tái sử dụng ở khoảng 12 fps; ảnh mẫu chỉ được vẽ lại khi thay đổi bộ lọc hoặc bố cục, trừ khi bật AR. Tạm ngưng preview khi tab bị ẩn. Bộ lọc preview và xuất ảnh dùng cùng phép biến đổi pixel, kể cả trên trình duyệt không hỗ trợ canvas.filter.
 
 ## Kiến trúc
